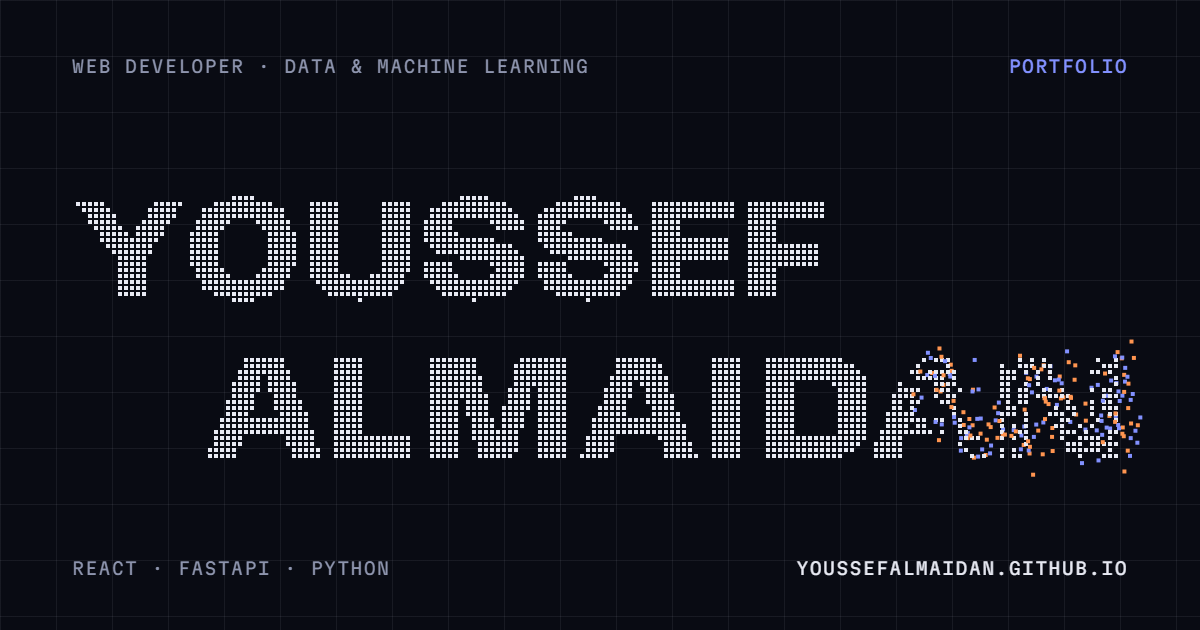
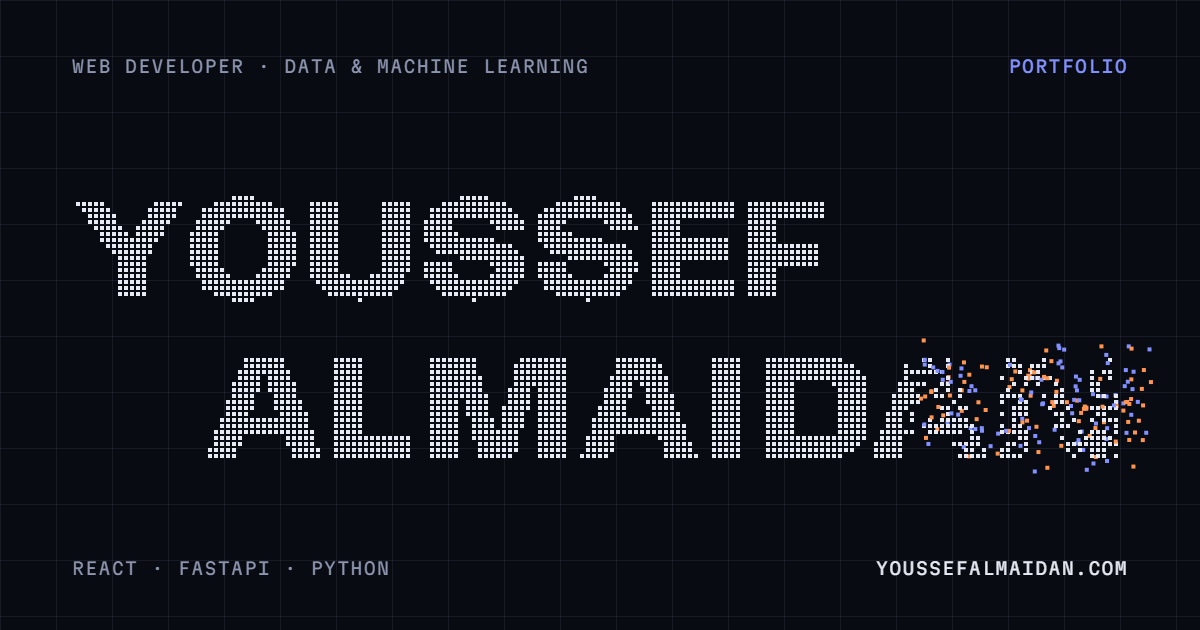
Use custom domain youssefalmaidan.com

Changed region(s): [[0.74, 0.5429, 0.9558, 0.754], [0.6475, 0.8746, 0.9558, 0.9349]]

diff --git a/index.html b/index.html
@@ -4,12 +4,12 @@
 <meta charset="utf-8">
 <meta name="viewport" content="width=device-width, initial-scale=1, viewport-fit=cover">
 <link rel="icon" href="favicon.svg" type="image/svg+xml">
-<link rel="canonical" href="https://youssefalmaidan.github.io/">
+<link rel="canonical" href="https://youssefalmaidan.com/">
 <meta property="og:type" content="website">
-<meta property="og:url" content="https://youssefalmaidan.github.io/">
+<meta property="og:url" content="https://youssefalmaidan.com/">
 <meta property="og:title" content="Youssef Almaidan · Web developer">
 <meta property="og:description" content="Web developer working across React, FastAPI, data and machine learning. Based in Saudi Arabia, freelancing since 2023.">
-<meta property="og:image" content="https://youssefalmaidan.github.io/og.png">
+<meta property="og:image" content="https://youssefalmaidan.com/og.png">
 <meta property="og:image:width" content="1200">
 <meta property="og:image:height" content="630">
 <meta name="twitter:card" content="summary_large_image">
